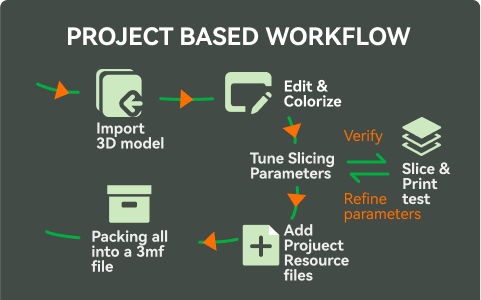
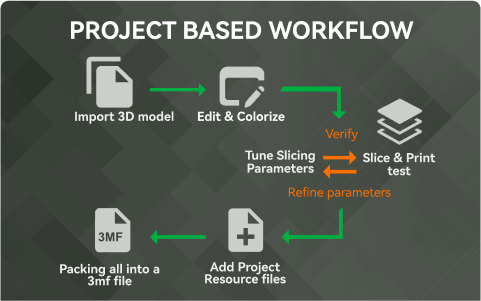
NEW: add model Depot Button
(cherry picked from commit 84e964bdd8eb63347a3fefcefe82c9cae6e52c5f)

Changed region(s): [[0.0, 0.18, 0.9356, 0.96], [0.0, 0.0, 1.0, 1.0], [0.1247, 0.06, 0.8732, 0.15]]

diff --git a/resources/web/guide/23/23.js b/resources/web/guide/23/23.js
@@ -113,11 +113,16 @@ function SortUI()
 	{
 		let OneFila=m_ProfileItem['filament'][key];
 		
+		//alert(JSON.stringify(OneFila));
+		
+		let fWholeName=OneFila['name'].trim();
 		let fShortName=GetFilamentShortname( OneFila['name'] );
 		let fVendor=OneFila['vendor'];
 		let fType=OneFila['type'];
 		let fSelect=OneFila['selected'];
 		let fModel=OneFila['models']
+		
+		//alert( fWholeName+' - '+fShortName+' - '+fVendor+' - '+fType+' - '+fSelect+' - '+fModel );
 		
 //		if(OneFila['name'].indexOf("Bambu PA-CF")>=0)
 //		{
@@ -149,9 +154,9 @@ function SortUI()
 				{
 					let nowModel= OneName+"++"+NozzleArray[b];
 					if(fModel.indexOf(nowModel)>=0)
-		    	{
-		    		bFind=true;
-				    break;
+					{
+						bFind=true;
+						break;
 					}
 				}
 			}
@@ -173,7 +178,7 @@ function SortUI()
 			if(!VendorHtmlArray.hasOwnProperty(lowVendor))
 		    {
 			    let HtmlVendor='<div><input type="checkbox" vendor="'+fVendor+'"  onChange="VendorClick()" />'+fVendor+'</div>';
-			
+				
 				VendorHtmlArray[lowVendor]=HtmlVendor;
 		    }
 			
@@ -181,27 +186,30 @@ function SortUI()
 			let pFila=$("#ItemBlockArea input[vendor='"+fVendor+"'][filatype='"+fType+"'][name='"+fShortName+"']");
 	        if(pFila.length==0)
 		    {
-			    let HtmlFila='<div class="MItem"><input type="checkbox" vendor="'+fVendor+'"  filatype="'+fType+'" model="'+fModel+'" name="'+fShortName+'" />'+fShortName+'</div>';
+			    let HtmlFila='<div class="MItem"><input type="checkbox" vendor="'+fVendor+'"  filatype="'+fType+'" filalist="'+fWholeName+';'+'"  model="'+fModel+'" name="'+fShortName+'" />'+fShortName+'</div>';
 			
 			    $("#ItemBlockArea").append(HtmlFila);
-				
-				if(fSelect==1)
-				{
-					$("#ItemBlockArea input[vendor='"+fVendor+"'][filatype='"+fType+"'][name='"+fShortName+"']").prop("checked",true);
-					
-					SelectNumber++;
-				}
-//				else
-//					$("#ItemBlockArea input[vendor='"+fVendor+"'][model='"+fModel+"'][filatype='"+fType+"'][name='"+key+"']").prop("checked",false);
 		    } 
-				else
+			else
 			{
 				let strModel=pFila.attr("model");
+				let strFilalist=pFila.attr("filalist");
 				
 				pFila.attr("model", strModel+fModel);
+				pFila.attr("filalist", strFilalist+fWholeName+';');
 			}
+			
+		    if(fSelect*1==1)
+			{
+				//alert( fWholeName+' - '+fShortName+' - '+fVendor+' - '+fType+' - '+fSelect+' - '+fModel );
+					
+				$("#ItemBlockArea input[vendor='"+fVendor+"'][filatype='"+fType+"'][name='"+fShortName+"']").prop("checked",true);
+				SelectNumber++;
+			}
+//			else
+//				$("#ItemBlockArea input[vendor='"+fVendor+"'][model='"+fModel+"'][filatype='"+fType+"'][name='"+key+"']").prop("checked",false);			
 		}
-	}
+	} 
 
 	//Sort TypeArray
 	let TypeAdvNum=FilamentPriority.length;

diff --git a/resources/web/guide/22/22.js b/resources/web/guide/22/22.js
@@ -116,12 +116,16 @@ function SortUI()
 	{
 		let OneFila=m_ProfileItem['filament'][key];
 		
+		//alert(JSON.stringify(OneFila));
+		
 		let fWholeName=OneFila['name'].trim();
 		let fShortName=GetFilamentShortname( OneFila['name'] );
 		let fVendor=OneFila['vendor'];
 		let fType=OneFila['type'];
 		let fSelect=OneFila['selected'];
 		let fModel=OneFila['models']
+		
+		//alert( fWholeName+' - '+fShortName+' - '+fVendor+' - '+fType+' - '+fSelect+' - '+fModel );
 		
 //		if(OneFila['name'].indexOf("Bambu PA-CF")>=0)
 //		{
@@ -188,15 +192,6 @@ function SortUI()
 			    let HtmlFila='<div class="MItem"><input type="checkbox" vendor="'+fVendor+'"  filatype="'+fType+'" filalist="'+fWholeName+';'+'"  model="'+fModel+'" name="'+fShortName+'" />'+fShortName+'</div>';
 			
 			    $("#ItemBlockArea").append(HtmlFila);
-				
-				if(fSelect==1)
-				{
-					$("#ItemBlockArea input[vendor='"+fVendor+"'][filatype='"+fType+"'][name='"+fShortName+"']").prop("checked",true);
-					
-					SelectNumber++;
-				}
-//				else
-//					$("#ItemBlockArea input[vendor='"+fVendor+"'][model='"+fModel+"'][filatype='"+fType+"'][name='"+key+"']").prop("checked",false);
 		    } 
 			else
 			{
@@ -206,8 +201,18 @@ function SortUI()
 				pFila.attr("model", strModel+fModel);
 				pFila.attr("filalist", strFilalist+fWholeName+';');
 			}
+			
+		    if(fSelect*1==1)
+			{
+				//alert( fWholeName+' - '+fShortName+' - '+fVendor+' - '+fType+' - '+fSelect+' - '+fModel );
+					
+				$("#ItemBlockArea input[vendor='"+fVendor+"'][filatype='"+fType+"'][name='"+fShortName+"']").prop("checked",true);
+				SelectNumber++;
+			}
+//			else
+//				$("#ItemBlockArea input[vendor='"+fVendor+"'][model='"+fModel+"'][filatype='"+fType+"'][name='"+key+"']").prop("checked",false);			
 		}
-	}
+	} 
 
 	//Sort TypeArray
 	let TypeAdvNum=FilamentPriority.length;

diff --git a/resources/web/homepage/js/home.js b/resources/web/homepage/js/home.js
@@ -252,6 +252,14 @@ function OnLoginOrRegister()
 	SendWXMessage( JSON.stringify(tSend) );	
 }
 
+function OnClickModelDepot()
+{
+	var tSend={};
+	tSend['sequence_id']=Math.round(new Date() / 1000);
+	tSend['command']="homepage_modeldepot";
+	
+	SendWXMessage( JSON.stringify(tSend) );		
+}
 
 function OnClickNewProject()
 {

diff --git a/resources/web/homepage/index.html b/resources/web/homepage/index.html
@@ -50,6 +50,13 @@
 <div id="ContentBoard" board="recent">
     <div style="height: 14px;"></div>	
 	<div id="MenuArea">
+		<div class="MenuItem" onClick="OnClickModelDepot()">
+			<div class="MenuIcon"><img src="img/i6.png"></div>
+			<div>
+				<div class="trans" tid="t90">3D Model</div>
+				<div class="MenuDesc trans"  tid="t91">Download 3D Models</div>
+			</div>
+		</div>		
 		<div class="MenuItem" onClick="OnClickNewProject()">
 			<div class="MenuIcon"><img src="img/i4.png"></div>
 			<div>

diff --git a/resources/web/data/text.js b/resources/web/data/text.js
@@ -81,7 +81,9 @@ var LangText={
 		"t86":"Close",
 		"t87":"User Manual",
 		"t88":"Remove",
-		"t89":"Open Containing Folder"
+		"t89":"Open Containing Folder",
+		"t90":"3D Model",
+		"t91":"Download 3D Models"
 	},
 	"zh_CN":{
 		"t1":"欢迎使用Bambu Studio",
@@ -166,6 +168,8 @@ var LangText={
 		"t87":"使用引导",
 		"t88":"移除",
 		"t89":"打开所在的文件夹",
+		"t90":"3D 模型",
+		"t91":"下载3D模型",
 		"wk1":"快速入门指南",
 		"wk2":"本文介绍了Bambu Studio的最基本用法。它指导用户配置软件，创建项目，并逐步完成第一个打印任务。",
 		"wk3":"基于项目的工作流",

diff --git a/src/slic3r/GUI/GUI_App.cpp b/src/slic3r/GUI/GUI_App.cpp
@@ -3173,6 +3173,9 @@ std::string GUI_App::handle_web_request(std::string cmd)
                 CallAfter([this] {
                     wxGetApp().request_user_logout();
                 });
+            }            
+            else if (command_str.compare("homepage_modeldepot") == 0) {
+                
             }
             else if (command_str.compare("homepage_newproject") == 0) {
                 this->request_open_project("<new>");